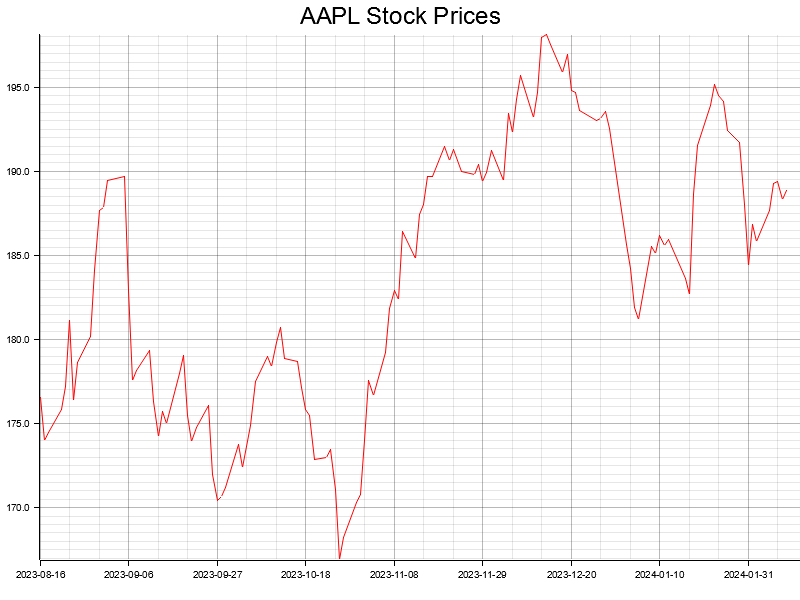
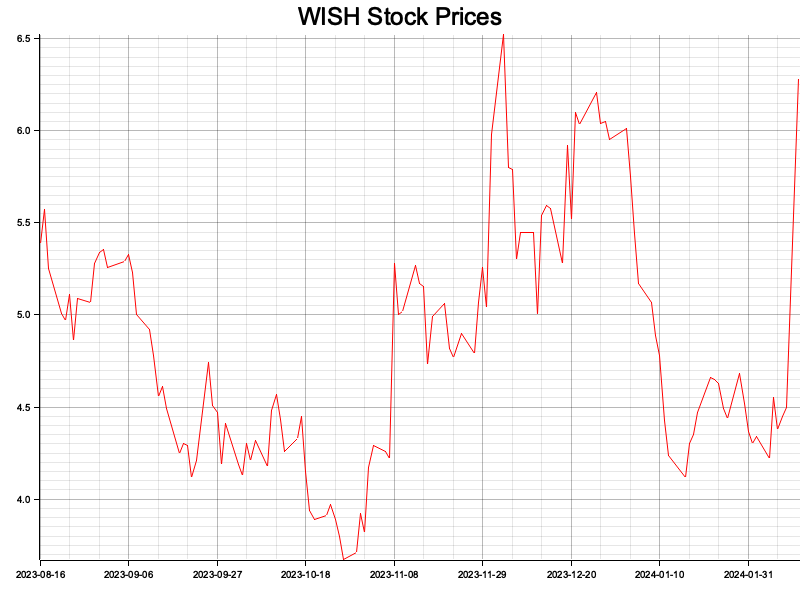
Add CLI, add gitignore

Changed region(s): [[0.0, 0.0, 1.0, 0.96]]

diff --git a/stock_market_monitor/src/main.rs b/stock_market_monitor/src/main.rs
@@ -1,67 +1,97 @@
+use time::{Duration, OffsetDateTime};
 use yahoo_finance_api as yahoo;
 use yahoo_finance_api::Quote;
-use time::{OffsetDateTime, Duration};
 
+use plotters::drawing::IntoDrawingArea;
 use plotters::prelude::*;
 use plotters::style::RGBColor;
-use plotters::drawing::IntoDrawingArea;
 
-use chrono::{NaiveDate, TimeZone, Datelike, Utc};
+use chrono::{Datelike, NaiveDate, TimeZone, Utc};
 
+use clap::Parser;
 
-fn get_stock_prices(stock_name: &str, end_date: OffsetDateTime, start_date: OffsetDateTime) -> Vec<Quote> {
+fn get_stock_prices(
+    stock_name: &str,
+    end_date: OffsetDateTime,
+    start_date: OffsetDateTime,
+) -> Vec<Quote> {
     let provider = yahoo::YahooConnector::new();
-    
+
     // returns historic quotes with daily interval
-    let resp = tokio_test::block_on(provider.get_quote_history(stock_name, start_date, end_date)).unwrap();
+    let resp =
+        tokio_test::block_on(provider.get_quote_history(stock_name, start_date, end_date)).unwrap();
     return resp.quotes().unwrap();
 }
 
-
-fn plot_prices(min_price: f64, max_price: f64, min_date: NaiveDate, max_date: NaiveDate, series: Vec<(NaiveDate, f64)>, stock_name: &str) -> Result<(), Box<dyn std::error::Error>> {
+fn plot_prices(
+    min_price: f64,
+    max_price: f64,
+    min_date: NaiveDate,
+    max_date: NaiveDate,
+    series: Vec<(NaiveDate, f64)>,
+    stock_name: &str,
+) -> Result<(), Box<dyn std::error::Error>> {
     // Create a drawing area
     let root = BitMapBackend::new("stock_prices.png", (800, 600)).into_drawing_area();
     root.fill(&RGBColor(255, 255, 255))?;
 
     // Configure a line chart
     let mut chart = ChartBuilder::on(&root)
-        .caption(stock_name.to_owned() + " Stock Prices", ("Arial", 30).into_font())
+        .caption(
+            stock_name.to_owned() + " Stock Prices",
+            ("Arial", 30).into_font(),
+        )
         .x_label_area_size(40)
         .y_label_area_size(40)
         .build_cartesian_2d(min_date..max_date, min_price..max_price)?;
 
     // Draw the line series
     chart.configure_mesh().draw()?;
-    chart
-        .draw_series(LineSeries::new(
-            series.iter().map(|(x, y)| (*x, *y)),
-            &RGBColor(255, 0, 0),
-        ))?;
+    chart.draw_series(LineSeries::new(
+        series.iter().map(|(x, y)| (*x, *y)),
+        &RGBColor(255, 0, 0),
+    ))?;
     Ok(())
 }
+/// Generate plots from inputted stock names
+#[derive(Parser, Debug)]
+#[command(version, about, long_about = None)]
+struct Args {
+    /// Name of the stock ticker, ex. AAPL
+    stock_name: String,
+}
 
-
-fn main()  {
-    let stock_name = "AAPL";
+fn main() {
+    let args = Args::parse();
+    let stock_name: &str = &args.stock_name;
 
     // Get today's date and six months prior date
     let today = OffsetDateTime::now_utc();
     let six_months_ago = today - Duration::days(30 * 6);
 
     let quotes = get_stock_prices(stock_name, today, six_months_ago);
-    
 
     let mut series = Vec::new();
 
-    let min_date: NaiveDate = NaiveDate::from_ymd(six_months_ago.year(), six_months_ago.month() as u32, six_months_ago.day().into());
-    let max_date: NaiveDate = NaiveDate::from_ymd(today.year(), today.month() as u32, today.day().into());
+    // TODO remove deprecated functions
+    let min_date: NaiveDate = NaiveDate::from_ymd(
+        six_months_ago.year(),
+        six_months_ago.month() as u32,
+        six_months_ago.day().into(),
+    );
+    let max_date: NaiveDate =
+        NaiveDate::from_ymd(today.year(), today.month() as u32, today.day().into());
     let mut min_price: f64 = 10000.0;
     let mut max_price: f64 = 0.0;
 
-    for item in quotes{
+    for item in quotes {
         let datetime_utc = Utc.timestamp(item.timestamp as i64, 0);
-        let item_date: NaiveDate = NaiveDate::from_ymd(datetime_utc.year(), datetime_utc.month() as u32, datetime_utc.day().into());
-        
+        let item_date: NaiveDate = NaiveDate::from_ymd(
+            datetime_utc.year(),
+            datetime_utc.month() as u32,
+            datetime_utc.day().into(),
+        );
+
         let x: (NaiveDate, f64) = (item_date, item.close);
         series.push(x);
 
@@ -76,12 +106,12 @@ fn main()  {
     let _ = plot_prices(min_price, max_price, min_date, max_date, series, stock_name);
 }
 
-// Quote { 
-//     timestamp: 1577975400, 
-//     open: 74.05, 
-//     high: 75.15, 
+// Quote {
+//     timestamp: 1577975400,
+//     open: 74.05,
+//     high: 75.15,
 //     low: 73.79,
-//     volume: 135480400, 
-//     close: 75.08, 
+//     volume: 135480400,
+//     close: 75.08,
 //     adjclose: 73.05
 // }
